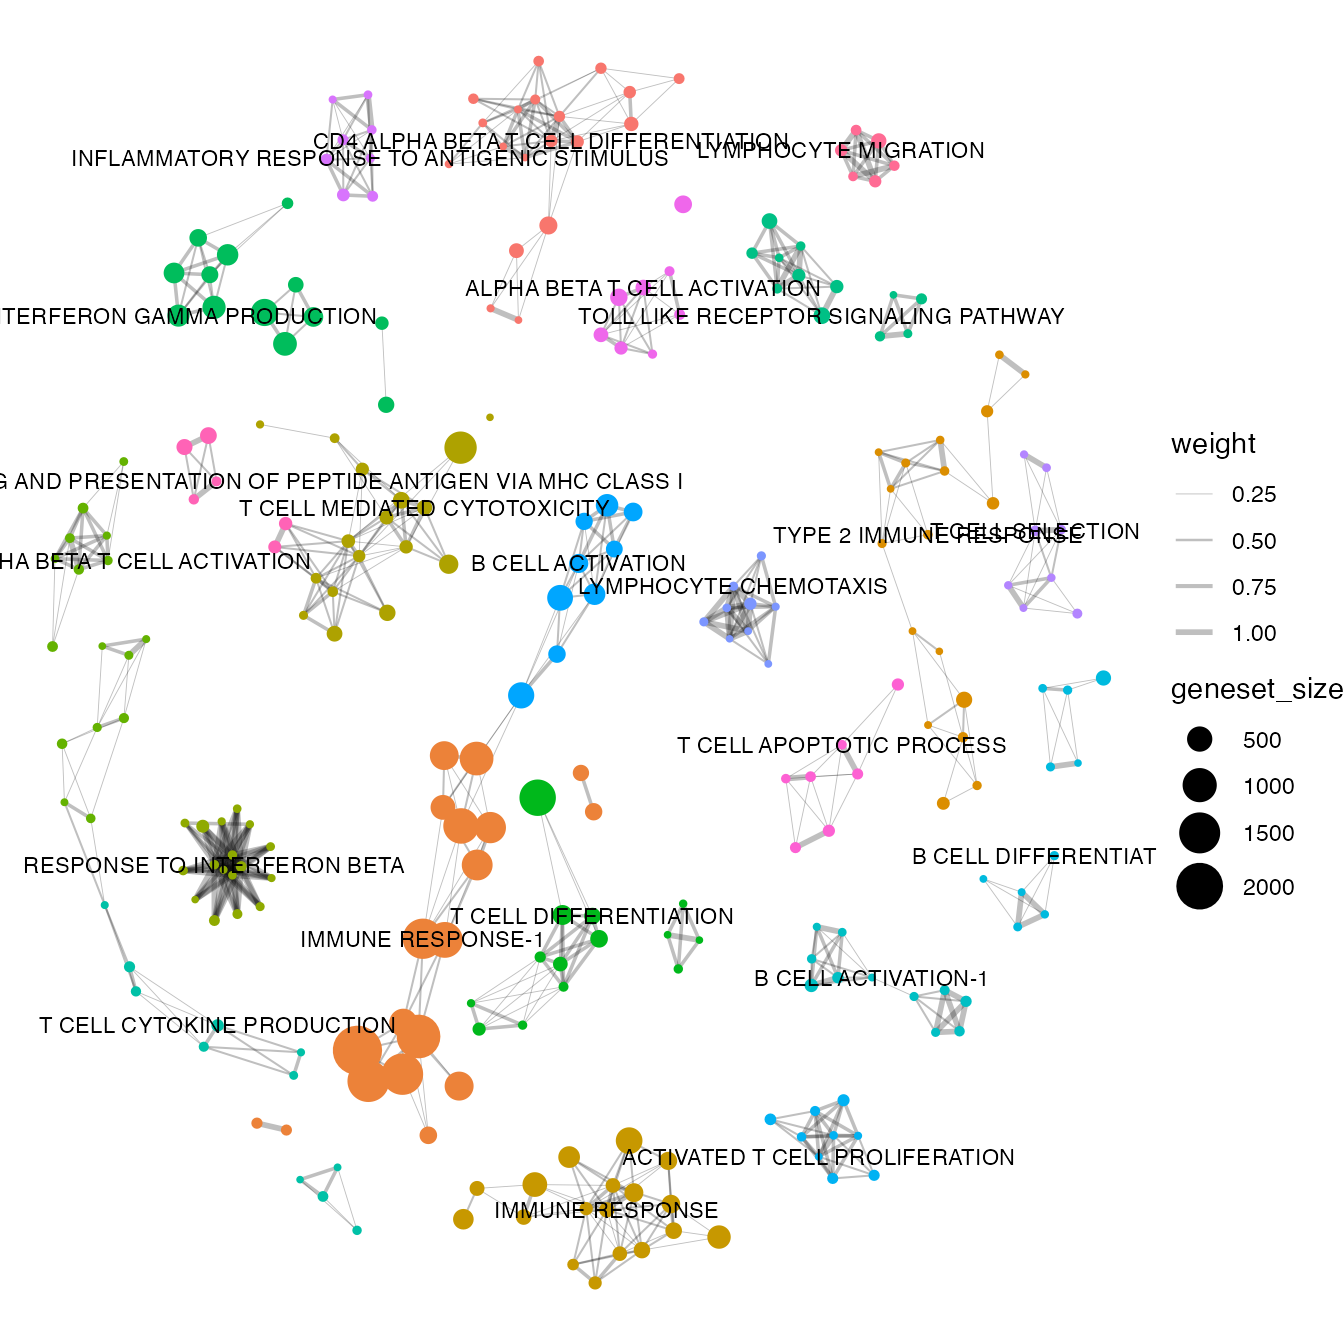
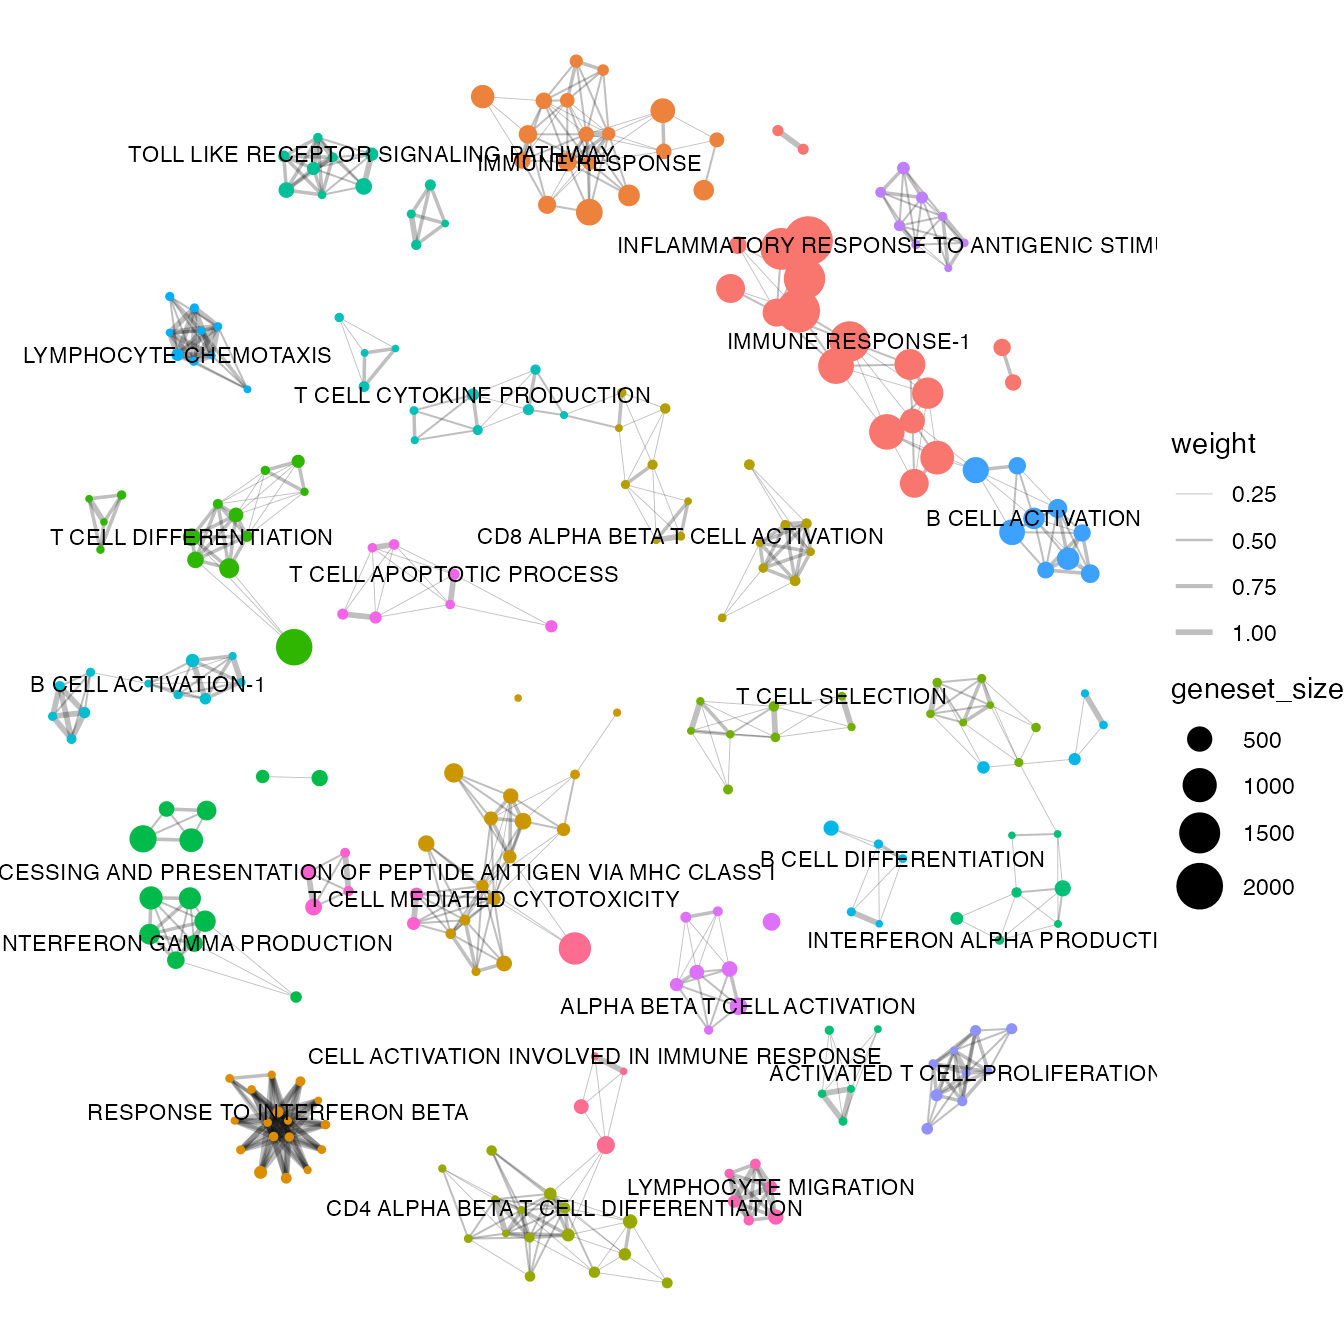
Built site for bowerbird: 0.0.2@9547fc2

Changed region(s): [[0.0, 0.0312, 0.8438, 0.9688], [0.1875, 0.5625, 0.25, 0.5938], [0.375, 0.5, 0.4062, 0.5312]]

diff --git a/reference/enrich_genesets.html b/reference/enrich_genesets.html
@@ -266,25 +266,36 @@
 <span class='va'>bwr</span> <span class='op'>&lt;-</span> <span class='fu'><a href='snn_graph.html'>snn_graph</a></span><span class='op'>(</span><span class='va'>bwr</span><span class='op'>)</span>
 </div><div class='output co'>#&gt; <span class='message'>Loading required namespace: FNN</span></div><div class='input'><span class='va'>bwr</span> <span class='op'>&lt;-</span> <span class='fu'><a href='find_clusters.html'>find_clusters</a></span><span class='op'>(</span><span class='va'>bwr</span><span class='op'>)</span>
 <span class='va'>bwr</span> <span class='op'>&lt;-</span> <span class='fu'>summarize_clusters</span><span class='op'>(</span><span class='va'>bwr</span>, ncpus <span class='op'>=</span> <span class='fl'>1</span><span class='op'>)</span>
-</div><div class='output co'>#&gt; <span class='error'>Error in pbmclapply(df_split, function(x) {    x &lt;- x %&gt;% select(name) %&gt;% unlist %&gt;% as.character    x &lt;- gsub(sep, " ", x)    return(x)}, mc.cores = n_cpus): object 'n_cpus' not found</span></div><div class='input'><span class='va'>bwr</span> <span class='op'>&lt;-</span> <span class='fu'>enrich_genesets</span><span class='op'>(</span><span class='va'>kidneyimmune</span>, <span class='va'>bwr</span>, groupby <span class='op'>=</span> <span class='st'>'celltype'</span>, ncpus <span class='op'>=</span> <span class='fl'>1</span><span class='op'>)</span>
+</div><div class='output co'>#&gt; <span class='message'>Downloading udpipe model from https://raw.githubusercontent.com/jwijffels/udpipe.models.ud.2.5/master/inst/udpipe-ud-2.5-191206/english-ewt-ud-2.5-191206.udpipe to ~/Library/Application Support/bowerbird/english-ewt-ud-2.5-191206.udpipe</span></div><div class='output co'>#&gt; <span class='message'> - This model has been trained on version 2.5 of data from https://universaldependencies.org</span></div><div class='output co'>#&gt; <span class='message'> - The model is distributed under the CC-BY-SA-NC license: https://creativecommons.org/licenses/by-nc-sa/4.0</span></div><div class='output co'>#&gt; <span class='message'> - Visit https://github.com/jwijffels/udpipe.models.ud.2.5 for model license details.</span></div><div class='output co'>#&gt; <span class='message'> - For a list of all models and their licenses (most models you can download with this package have either a CC-BY-SA or a CC-BY-SA-NC license) read the documentation at ?udpipe_download_model. For building your own models: visit the documentation by typing vignette('udpipe-train', package = 'udpipe')</span></div><div class='output co'>#&gt; <span class='message'>Downloading finished, model stored at '~/Library/Application Support/bowerbird/english-ewt-ud-2.5-191206.udpipe'</span></div><div class='input'><span class='va'>bwr</span> <span class='op'>&lt;-</span> <span class='fu'>enrich_genesets</span><span class='op'>(</span><span class='va'>kidneyimmune</span>, <span class='va'>bwr</span>, groupby <span class='op'>=</span> <span class='st'>'celltype'</span>, ncpus <span class='op'>=</span> <span class='fl'>1</span><span class='op'>)</span>
 </div><div class='output co'>#&gt; <span class='message'>Loading required package: Seurat</span></div><div class='output co'>#&gt; <span class='message'>Registered S3 method overwritten by 'spatstat.geom':</span>
 #&gt; <span class='message'>  method     from</span>
-#&gt; <span class='message'>  print.boxx cli </span></div><div class='output co'>#&gt; <span class='message'>Attaching SeuratObject</span></div><div class='output co'>#&gt; <span class='message'>Loading required namespace: AUCell</span></div><div class='output co'>#&gt; <span class='error'>Error in AUCell::AUCell_buildRankings(SummarizedExperiment::assays(scex)[[sce_assay]],     nCores = n_cpus, plotStats = FALSE, verbose = FALSE, ...): object 'n_cpus' not found</span></div><div class='input'><span class='va'>bwr</span>
+#&gt; <span class='message'>  print.boxx cli </span></div><div class='output co'>#&gt; <span class='message'>Attaching SeuratObject</span></div><div class='output co'>#&gt; <span class='message'>Loading required namespace: AUCell</span></div><div class='input'><span class='va'>bwr</span>
 </div><div class='output co'>#&gt; BOWER class
 #&gt; number of genesets:  50 
 #&gt; genesets kNN Graph: 
-#&gt; IGRAPH 403452d UNW- 50 124 -- 
-#&gt; + attr: name (v/c), cluster (v/n), geneset_size (v/n), weight (e/n)
-#&gt; + edges from 403452d (vertex names):
-#&gt; [1] HALLMARK_TNFA_SIGNALING_VIA_NFKB--HALLMARK_HYPOXIA                          
-#&gt; [2] HALLMARK_TNFA_SIGNALING_VIA_NFKB--HALLMARK_TGF_BETA_SIGNALING               
-#&gt; [3] HALLMARK_TNFA_SIGNALING_VIA_NFKB--HALLMARK_IL6_JAK_STAT3_SIGNALING          
-#&gt; [4] HALLMARK_TNFA_SIGNALING_VIA_NFKB--HALLMARK_APOPTOSIS                        
-#&gt; [5] HALLMARK_TNFA_SIGNALING_VIA_NFKB--HALLMARK_MYOGENESIS                       
-#&gt; [6] HALLMARK_TNFA_SIGNALING_VIA_NFKB--HALLMARK_COMPLEMENT                       
-#&gt; [7] HALLMARK_TNFA_SIGNALING_VIA_NFKB--HALLMARK_EPITHELIAL_MESENCHYMAL_TRANSITION
+#&gt; IGRAPH 1866b98 UNW- 50 124 -- 
+#&gt; + attr: name (v/c), cluster (v/n), geneset_size (v/n), terms (v/c),
+#&gt; | labels (v/c), weight (e/n)
+#&gt; + edges from 1866b98 (vertex names):
+#&gt; [1] HALLMARK_TNFA_SIGNALING_VIA_NFKB--HALLMARK_HYPOXIA                
+#&gt; [2] HALLMARK_TNFA_SIGNALING_VIA_NFKB--HALLMARK_TGF_BETA_SIGNALING     
+#&gt; [3] HALLMARK_TNFA_SIGNALING_VIA_NFKB--HALLMARK_IL6_JAK_STAT3_SIGNALING
+#&gt; [4] HALLMARK_TNFA_SIGNALING_VIA_NFKB--HALLMARK_APOPTOSIS              
+#&gt; [5] HALLMARK_TNFA_SIGNALING_VIA_NFKB--HALLMARK_MYOGENESIS             
+#&gt; [6] HALLMARK_TNFA_SIGNALING_VIA_NFKB--HALLMARK_COMPLEMENT             
 #&gt; + ... omitted several edges
-#&gt; number of geneset clusters:  10 </div></pre>
+#&gt; number of geneset clusters:  9 
+#&gt; Core genes:
+#&gt; 	First six genes shown
+#&gt; 	 XENOBIOTIC METABOLISM : LIFR DNAJB9 CD36 ACOX1 IDH1 ECH1 ...
+#&gt; 	 E2F TARGETS : SAC3D1 KIF11 KIF23 RACGAP1 NUMA1 KIF2C ...
+#&gt; 	 ESTROGEN RESPONSE EARLY : JAG1 CTNNB1 GNAI1 FDFT1 DHCR7 FASN ...
+#&gt; 	 HEDGEHOG SIGNALING : VEGFA VLDLR MYH9 ERO1A DDIT4 STC2 ...
+#&gt; 	 APOPTOSIS : SPTAN1 CDKN1A GSN GPX3 CLU GADD45B ...
+#&gt; 	 IL2 STAT5 SIGNALING : JUNB PPP1R15A SERPINE1 ID2 IFNGR2 PMEPA1 ...
+#&gt; 	 INTERFERON ALPHA RESPONSE : MX1 ISG15 IFIT3 IFI44 IFI35 IRF7 ...
+#&gt; 	 APICAL JUNCTION : EGFR ADAM10 CLTC AP2M1 ARF1 MAPK1 ...
+#&gt; 	 EPITHELIAL MESENCHYMAL TRANSITION : FBN1 FN1 SERPINE1 SPARC MMP2 THBS1 ...</div></pre>
   </div>
   <div class="col-md-3 hidden-xs hidden-sm" id="pkgdown-sidebar">
     <nav id="toc" data-toggle="toc" class="sticky-top">

diff --git a/articles/bowerbird_vignette.html b/articles/bowerbird_vignette.html
@@ -181,41 +181,42 @@
 <span class="co">#&gt; BOWER class</span>
 <span class="co">#&gt; number of genesets:  265 </span>
 <span class="co">#&gt; genesets kNN Graph: </span>
-<span class="co">#&gt; IGRAPH 212c7b2 UNW- 265 843 -- </span>
+<span class="co">#&gt; IGRAPH ffbe425 UNW- 265 843 -- </span>
 <span class="co">#&gt; + attr: name (v/c), cluster (v/n), geneset_size (v/n), terms (v/c),</span>
 <span class="co">#&gt; | labels (v/c), weight (e/n)</span>
-<span class="co">#&gt; + edges from 212c7b2 (vertex names):</span>
+<span class="co">#&gt; + edges from ffbe425 (vertex names):</span>
 <span class="co">#&gt; [1] GOBP_ACTIVATED_T_CELL_PROLIFERATION--GOBP_CD8_POSITIVE_ALPHA_BETA_T_CELL_DIFFERENTIATION          </span>
 <span class="co">#&gt; [2] GOBP_ACTIVATED_T_CELL_PROLIFERATION--GOBP_NEGATIVE_REGULATION_OF_ACTIVATED_T_CELL_PROLIFERATION   </span>
 <span class="co">#&gt; [3] GOBP_ACTIVATED_T_CELL_PROLIFERATION--GOBP_NEGATIVE_REGULATION_OF_LYMPHOCYTE_DIFFERENTIATION       </span>
 <span class="co">#&gt; [4] GOBP_ACTIVATED_T_CELL_PROLIFERATION--GOBP_NEGATIVE_REGULATION_OF_T_CELL_RECEPTOR_SIGNALING_PATHWAY</span>
 <span class="co">#&gt; [5] GOBP_ACTIVATION_OF_IMMUNE_RESPONSE --GOBP_ACTIVATION_OF_INNATE_IMMUNE_RESPONSE                    </span>
 <span class="co">#&gt; + ... omitted several edges</span>
-<span class="co">#&gt; number of geneset clusters:  22 </span>
+<span class="co">#&gt; number of geneset clusters:  23 </span>
 <span class="co">#&gt; Core genes:</span>
 <span class="co">#&gt;  First six genes shown</span>
-<span class="co">#&gt;   CD4 ALPHA BETA T CELL DIFFERENTIATION : ANXA1 ATP7A BATF BCL3 BCL6 CBFB ...</span>
 <span class="co">#&gt;   IMMUNE RESPONSE-1 : AIM2 BCL10 BTRC CARD11 CARD9 CD209 ...</span>
-<span class="co">#&gt;   TYPE 2 IMMUNE RESPONSE : IL4 PLCL2 TLR4 IL18 IL18R1 IL4R ...</span>
 <span class="co">#&gt;   IMMUNE RESPONSE : CLNK HLA-E HLA-F IFNA2 IFNB1 IL18 ...</span>
-<span class="co">#&gt;   T CELL MEDIATED CYTOTOXICITY : HLA-A HLA-B HLA-C HLA-E HLA-F HLA-G ...</span>
 <span class="co">#&gt;   RESPONSE TO INTERFERON BETA : BCL2L11 HIF1A MEF2C ADA SOS1 SOS2 ...</span>
+<span class="co">#&gt;   T CELL MEDIATED CYTOTOXICITY : HLA-A HLA-B HLA-C HLA-E HLA-F HLA-G ...</span>
 <span class="co">#&gt;   CD8 ALPHA BETA T CELL ACTIVATION : HLA-E GATA3 ADCYAP1 BTK C3 CCR7 ...</span>
+<span class="co">#&gt;   CD4 ALPHA BETA T CELL DIFFERENTIATION : ANXA1 ATP7A BATF BCL3 BCL6 CBFB ...</span>
+<span class="co">#&gt;   T CELL SELECTION : TOX BCL2 IL12B IL12RB1 IL23A IL23R ...</span>
 <span class="co">#&gt;   T CELL DIFFERENTIATION : FCGR2B FGL2 HLA-DOA LILRB2 THBS1 BMP4 ...</span>
 <span class="co">#&gt;   INTERFERON GAMMA PRODUCTION : ABCB9 ACE ACTR10 ACTR1A ACTR1B AP1B1 ...</span>
+<span class="co">#&gt;   INTERFERON ALPHA PRODUCTION : IL18 IL18R1 IL4 TLR4 SYK IL13 ...</span>
 <span class="co">#&gt;   TOLL LIKE RECEPTOR SIGNALING PATHWAY : CACTIN PTPRS TICAM1 TLR3 TLR4 TLR9 ...</span>
 <span class="co">#&gt;   T CELL CYTOKINE PRODUCTION : KLRC1 LILRB1 NOD2 PTPRC EGR3 LEF1 ...</span>
 <span class="co">#&gt;   B CELL ACTIVATION-1 : ADA BAX BCL6 BLK BTK CD74 ...</span>
-<span class="co">#&gt;   B CELL DIFFERENTIATION : IL10 TLR9 SYK ADA BCL3 C17orf99 ...</span>
-<span class="co">#&gt;   ACTIVATED T CELL PROLIFERATION : LILRB4 CD24 CD274 FYN HHLA2 ICOSLG ...</span>
-<span class="co">#&gt;   B CELL ACTIVATION : ADA ADAM17 BATF BCL3 BCL6 BTK ...</span>
+<span class="co">#&gt;   B CELL DIFFERENTIATION : ABL1 ADA BCL3 BCL6 C17orf99 CD19 ...</span>
 <span class="co">#&gt;   LYMPHOCYTE CHEMOTAXIS : CCL2 CCL3 CCL4 CCL5 CCL7 CXCL14 ...</span>
-<span class="co">#&gt;   T CELL SELECTION : TOX BCL2 BATF CTSL FOXP3 IL12B ...</span>
+<span class="co">#&gt;   B CELL ACTIVATION : ADA ADAM17 BATF BCL3 BCL6 BTK ...</span>
+<span class="co">#&gt;   ACTIVATED T CELL PROLIFERATION : LILRB4 CD24 CD274 FYN HHLA2 ICOSLG ...</span>
 <span class="co">#&gt;   INFLAMMATORY RESPONSE TO ANTIGENIC STIMULUS : BTK C3 CD28 HLA-E LTA NOD2 ...</span>
 <span class="co">#&gt;   ALPHA BETA T CELL ACTIVATION : AGER ANXA1 ARG2 ATP7A BATF BCL3 ...</span>
 <span class="co">#&gt;   T CELL APOPTOTIC PROCESS : ADA AKT1 BAK1 BAX BCL10 BCL2L11 ...</span>
 <span class="co">#&gt;   ANTIGEN PROCESSING AND PRESENTATION OF PEPTIDE ANTIGEN VIA MHC CLASS I : ABCB9 AZGP1 B2M ERAP1 ERAP2 HFE ...</span>
-<span class="co">#&gt;   LYMPHOCYTE MIGRATION : ADAM10 ADAM17 ADAM8 AIF1 APP CCL20 ...</span></code></pre></div>
+<span class="co">#&gt;   LYMPHOCYTE MIGRATION : ADAM10 ADAM17 ADAM8 AIF1 APP CCL20 ...</span>
+<span class="co">#&gt;   CELL ACTIVATION INVOLVED IN IMMUNE RESPONSE : ABL1 ADA ANXA1 AP1G1 APBB1IP ATP7A ...</span></code></pre></div>
 <p>We can visualise it with a simple plot</p>
 <div class="sourceCode" id="cb9"><pre class="downlit sourceCode r">
 <code class="sourceCode R"><span class="fu"><a href="../reference/plot_graph.html">plot_graph</a></span><span class="op">(</span><span class="va">bwr</span>, colorby <span class="op">=</span> <span class="st">'cluster'</span>, node.size <span class="op">=</span> <span class="st">'geneset_size'</span><span class="op">)</span></code></pre></div>

diff --git a/reference/summarize_clusters.html b/reference/summarize_clusters.html
@@ -192,22 +192,33 @@
 <span class='va'>bwr</span> <span class='op'>&lt;-</span> <span class='fu'><a href='snn_graph.html'>snn_graph</a></span><span class='op'>(</span><span class='va'>bwr</span><span class='op'>)</span>
 <span class='va'>bwr</span> <span class='op'>&lt;-</span> <span class='fu'><a href='find_clusters.html'>find_clusters</a></span><span class='op'>(</span><span class='va'>bwr</span><span class='op'>)</span>
 <span class='va'>bwr</span> <span class='op'>&lt;-</span> <span class='fu'>summarize_clusters</span><span class='op'>(</span><span class='va'>bwr</span>, ncpus <span class='op'>=</span> <span class='fl'>1</span><span class='op'>)</span>
-</div><div class='output co'>#&gt; <span class='error'>Error in pbmclapply(df_split, function(x) {    x &lt;- x %&gt;% select(name) %&gt;% unlist %&gt;% as.character    x &lt;- gsub(sep, " ", x)    return(x)}, mc.cores = n_cpus): object 'n_cpus' not found</span></div><div class='input'><span class='va'>bwr</span>
+<span class='va'>bwr</span>
 </div><div class='output co'>#&gt; BOWER class
 #&gt; number of genesets:  50 
 #&gt; genesets kNN Graph: 
-#&gt; IGRAPH 8eab2b5 UNW- 50 124 -- 
-#&gt; + attr: name (v/c), cluster (v/n), geneset_size (v/n), weight (e/n)
-#&gt; + edges from 8eab2b5 (vertex names):
-#&gt; [1] HALLMARK_TNFA_SIGNALING_VIA_NFKB--HALLMARK_HYPOXIA                          
-#&gt; [2] HALLMARK_TNFA_SIGNALING_VIA_NFKB--HALLMARK_TGF_BETA_SIGNALING               
-#&gt; [3] HALLMARK_TNFA_SIGNALING_VIA_NFKB--HALLMARK_IL6_JAK_STAT3_SIGNALING          
-#&gt; [4] HALLMARK_TNFA_SIGNALING_VIA_NFKB--HALLMARK_APOPTOSIS                        
-#&gt; [5] HALLMARK_TNFA_SIGNALING_VIA_NFKB--HALLMARK_MYOGENESIS                       
-#&gt; [6] HALLMARK_TNFA_SIGNALING_VIA_NFKB--HALLMARK_COMPLEMENT                       
-#&gt; [7] HALLMARK_TNFA_SIGNALING_VIA_NFKB--HALLMARK_EPITHELIAL_MESENCHYMAL_TRANSITION
+#&gt; IGRAPH f3149f2 UNW- 50 124 -- 
+#&gt; + attr: name (v/c), cluster (v/n), geneset_size (v/n), terms (v/c),
+#&gt; | labels (v/c), weight (e/n)
+#&gt; + edges from f3149f2 (vertex names):
+#&gt; [1] HALLMARK_TNFA_SIGNALING_VIA_NFKB--HALLMARK_HYPOXIA                
+#&gt; [2] HALLMARK_TNFA_SIGNALING_VIA_NFKB--HALLMARK_TGF_BETA_SIGNALING     
+#&gt; [3] HALLMARK_TNFA_SIGNALING_VIA_NFKB--HALLMARK_IL6_JAK_STAT3_SIGNALING
+#&gt; [4] HALLMARK_TNFA_SIGNALING_VIA_NFKB--HALLMARK_APOPTOSIS              
+#&gt; [5] HALLMARK_TNFA_SIGNALING_VIA_NFKB--HALLMARK_MYOGENESIS             
+#&gt; [6] HALLMARK_TNFA_SIGNALING_VIA_NFKB--HALLMARK_COMPLEMENT             
 #&gt; + ... omitted several edges
-#&gt; number of geneset clusters:  10 </div></pre>
+#&gt; number of geneset clusters:  9 
+#&gt; Core genes:
+#&gt; 	First six genes shown
+#&gt; 	 XENOBIOTIC METABOLISM : LIFR DNAJB9 CD36 ACOX1 IDH1 ECH1 ...
+#&gt; 	 E2F TARGETS : SAC3D1 KIF11 KIF23 RACGAP1 NUMA1 KIF2C ...
+#&gt; 	 ESTROGEN RESPONSE EARLY : JAG1 CTNNB1 GNAI1 FDFT1 DHCR7 FASN ...
+#&gt; 	 INTERFERON ALPHA RESPONSE : MX1 ISG15 IFIT3 IFI44 IFI35 IRF7 ...
+#&gt; 	 IL2 STAT5 SIGNALING : JUNB PPP1R15A SERPINE1 ID2 IFNGR2 PMEPA1 ...
+#&gt; 	 HEDGEHOG SIGNALING : VEGFA VLDLR MYH9 ERO1A DDIT4 STC2 ...
+#&gt; 	 APICAL JUNCTION : EGFR ADAM10 CLTC AP2M1 ARF1 MAPK1 ...
+#&gt; 	 APOPTOSIS : SPTAN1 CDKN1A GSN GPX3 CLU GADD45B ...
+#&gt; 	 P53 PATHWAY : BTG2 TAP1 CDKN2B ATF3 BTG1 RRAD ...</div></pre>
   </div>
   <div class="col-md-3 hidden-xs hidden-sm" id="pkgdown-sidebar">
     <nav id="toc" data-toggle="toc" class="sticky-top">

diff --git a/reference/extract_core.html b/reference/extract_core.html
@@ -150,8 +150,34 @@
 <span class='va'>bwr</span> <span class='op'>&lt;-</span> <span class='fu'><a href='snn_graph.html'>snn_graph</a></span><span class='op'>(</span><span class='va'>bwr</span><span class='op'>)</span>
 <span class='va'>bwr</span> <span class='op'>&lt;-</span> <span class='fu'><a href='find_clusters.html'>find_clusters</a></span><span class='op'>(</span><span class='va'>bwr</span><span class='op'>)</span>
 <span class='va'>bwr</span> <span class='op'>&lt;-</span> <span class='fu'>summarize_clusters</span><span class='op'>(</span><span class='va'>bwr</span>, ncpus <span class='op'>=</span> <span class='fl'>1</span><span class='op'>)</span>
-</div><div class='output co'>#&gt; <span class='error'>Error in pbmclapply(df_split, function(x) {    x &lt;- x %&gt;% select(name) %&gt;% unlist %&gt;% as.character    x &lt;- gsub(sep, " ", x)    return(x)}, mc.cores = n_cpus): object 'n_cpus' not found</span></div><div class='input'><span class='fu'>extract_core</span><span class='op'>(</span><span class='va'>bwr</span><span class='op'>)</span>
-</div><div class='output co'>#&gt; <span class='error'>Error in `[.data.frame`(bower@.graph_data, , c("cluster", "labels")): undefined columns selected</span></div></pre>
+<span class='fu'>extract_core</span><span class='op'>(</span><span class='va'>bwr</span><span class='op'>)</span>
+</div><div class='output co'>#&gt; BOWER class
+#&gt; number of genesets:  50 
+#&gt; genesets kNN Graph: 
+#&gt; IGRAPH 3339a9e UNW- 50 124 -- 
+#&gt; + attr: name (v/c), cluster (v/n), geneset_size (v/n), terms (v/c),
+#&gt; | labels (v/c), weight (e/n)
+#&gt; + edges from 3339a9e (vertex names):
+#&gt; [1] HALLMARK_TNFA_SIGNALING_VIA_NFKB--HALLMARK_HYPOXIA                
+#&gt; [2] HALLMARK_TNFA_SIGNALING_VIA_NFKB--HALLMARK_TGF_BETA_SIGNALING     
+#&gt; [3] HALLMARK_TNFA_SIGNALING_VIA_NFKB--HALLMARK_IL6_JAK_STAT3_SIGNALING
+#&gt; [4] HALLMARK_TNFA_SIGNALING_VIA_NFKB--HALLMARK_APOPTOSIS              
+#&gt; [5] HALLMARK_TNFA_SIGNALING_VIA_NFKB--HALLMARK_MYOGENESIS             
+#&gt; [6] HALLMARK_TNFA_SIGNALING_VIA_NFKB--HALLMARK_COMPLEMENT             
+#&gt; + ... omitted several edges
+#&gt; number of geneset clusters:  10 
+#&gt; Core genes:
+#&gt; 	First six genes shown
+#&gt; 	 XENOBIOTIC METABOLISM : LIFR DNAJB9 CD36 ACOX1 IDH1 ECH1 ...
+#&gt; 	 E2F TARGETS : SAC3D1 KIF11 KIF23 RACGAP1 NUMA1 KIF2C ...
+#&gt; 	 ESTROGEN RESPONSE EARLY : JAG1 CTNNB1 GNAI1 FDFT1 DHCR7 FASN ...
+#&gt; 	 INTERFERON GAMMA RESPONSE : IL4R IRF9 CSF1 CXCL10 STAT2 IRF1 ...
+#&gt; 	 HEDGEHOG SIGNALING : VEGFA VLDLR MYH9 ERO1A DDIT4 STC2 ...
+#&gt; 	 APICAL JUNCTION : EGFR ADAM10 CLTC AP2M1 ARF1 MAPK1 ...
+#&gt; 	 TGF BETA SIGNALING : JUNB PPP1R15A SERPINE1 ID2 IFNGR2 PMEPA1 ...
+#&gt; 	 APOPTOSIS : SPTAN1 CDKN1A GSN GPX3 CLU GADD45B ...
+#&gt; 	 P53 PATHWAY : BTG2 TAP1 CDKN2B ATF3 BTG1 RRAD ...
+#&gt; 	 COMPLEMENT : C2 C1S CFB C1R SERPINE1 MMP14 ...</div></pre>
   </div>
   <div class="col-md-3 hidden-xs hidden-sm" id="pkgdown-sidebar">
     <nav id="toc" data-toggle="toc" class="sticky-top">

diff --git a/reference/plot_graph.html b/reference/plot_graph.html
@@ -222,9 +222,8 @@
 <span class='va'>bwr</span> <span class='op'>&lt;-</span> <span class='fu'><a href='snn_graph.html'>snn_graph</a></span><span class='op'>(</span><span class='va'>bwr</span><span class='op'>)</span>
 <span class='va'>bwr</span> <span class='op'>&lt;-</span> <span class='fu'><a href='find_clusters.html'>find_clusters</a></span><span class='op'>(</span><span class='va'>bwr</span><span class='op'>)</span>
 <span class='va'>bwr</span> <span class='op'>&lt;-</span> <span class='fu'>summarize_clusters</span><span class='op'>(</span><span class='va'>bwr</span>, ncpus <span class='op'>=</span> <span class='fl'>1</span><span class='op'>)</span>
-</div><div class='output co'>#&gt; <span class='error'>Error in pbmclapply(df_split, function(x) {    x &lt;- x %&gt;% select(name) %&gt;% unlist %&gt;% as.character    x &lt;- gsub(sep, " ", x)    return(x)}, mc.cores = n_cpus): object 'n_cpus' not found</span></div><div class='input'><span class='fu'>plot_graph</span><span class='op'>(</span><span class='va'>bwr</span><span class='op'>)</span>
-</div><div class='output co'>#&gt; <span class='warning'>Warning: `guides(&lt;scale&gt; = FALSE)` is deprecated. Please use `guides(&lt;scale&gt; = "none")` instead.</span></div><div class='output co'>#&gt; <span class='message'>Don't know how to automatically pick scale for object of type function. Defaulting to continuous.</span></div><div class='output co'>#&gt; <span class='error'>Error: Aesthetics must be valid data columns. Problematic aesthetic(s): label = get(node.label). </span>
-#&gt; <span class='error'>Did you mistype the name of a data column or forget to add after_stat()?</span></div><div class='img'><img src='plot_graph-1.png' alt='' width='700' height='433' /></div></pre>
+<span class='fu'>plot_graph</span><span class='op'>(</span><span class='va'>bwr</span><span class='op'>)</span>
+</div><div class='output co'>#&gt; <span class='warning'>Warning: `guides(&lt;scale&gt; = FALSE)` is deprecated. Please use `guides(&lt;scale&gt; = "none")` instead.</span></div><div class='output co'>#&gt; <span class='warning'>Warning: Removed 40 rows containing missing values (geom_text).</span></div><div class='img'><img src='plot_graph-1.png' alt='' width='700' height='433' /></div></pre>
   </div>
   <div class="col-md-3 hidden-xs hidden-sm" id="pkgdown-sidebar">
     <nav id="toc" data-toggle="toc" class="sticky-top">

diff --git a/reference/find_clusters.html b/reference/find_clusters.html
@@ -164,9 +164,9 @@
 </div><div class='output co'>#&gt; BOWER class
 #&gt; number of genesets:  50 
 #&gt; genesets kNN Graph: 
-#&gt; IGRAPH 848817b UNW- 50 124 -- 
+#&gt; IGRAPH 17eff6b UNW- 50 124 -- 
 #&gt; + attr: name (v/c), cluster (v/n), geneset_size (v/n), weight (e/n)
-#&gt; + edges from 848817b (vertex names):
+#&gt; + edges from 17eff6b (vertex names):
 #&gt; [1] HALLMARK_TNFA_SIGNALING_VIA_NFKB--HALLMARK_HYPOXIA                          
 #&gt; [2] HALLMARK_TNFA_SIGNALING_VIA_NFKB--HALLMARK_TGF_BETA_SIGNALING               
 #&gt; [3] HALLMARK_TNFA_SIGNALING_VIA_NFKB--HALLMARK_IL6_JAK_STAT3_SIGNALING          
@@ -175,7 +175,7 @@
 #&gt; [6] HALLMARK_TNFA_SIGNALING_VIA_NFKB--HALLMARK_COMPLEMENT                       
 #&gt; [7] HALLMARK_TNFA_SIGNALING_VIA_NFKB--HALLMARK_EPITHELIAL_MESENCHYMAL_TRANSITION
 #&gt; + ... omitted several edges
-#&gt; number of geneset clusters:  9 </div></pre>
+#&gt; number of geneset clusters:  10 </div></pre>
   </div>
   <div class="col-md-3 hidden-xs hidden-sm" id="pkgdown-sidebar">
     <nav id="toc" data-toggle="toc" class="sticky-top">

diff --git a/reference/snn_graph.html b/reference/snn_graph.html
@@ -170,9 +170,9 @@
 </div><div class='output co'>#&gt; BOWER class
 #&gt; number of genesets:  50 
 #&gt; genesets kNN Graph: 
-#&gt; IGRAPH 0e89431 UNW- 50 124 -- 
+#&gt; IGRAPH 5252d08 UNW- 50 124 -- 
 #&gt; + attr: name (v/c), weight (e/n)
-#&gt; + edges from 0e89431 (vertex names):
+#&gt; + edges from 5252d08 (vertex names):
 #&gt; [1] HALLMARK_TNFA_SIGNALING_VIA_NFKB--HALLMARK_HYPOXIA                          
 #&gt; [2] HALLMARK_TNFA_SIGNALING_VIA_NFKB--HALLMARK_TGF_BETA_SIGNALING               
 #&gt; [3] HALLMARK_TNFA_SIGNALING_VIA_NFKB--HALLMARK_IL6_JAK_STAT3_SIGNALING          
